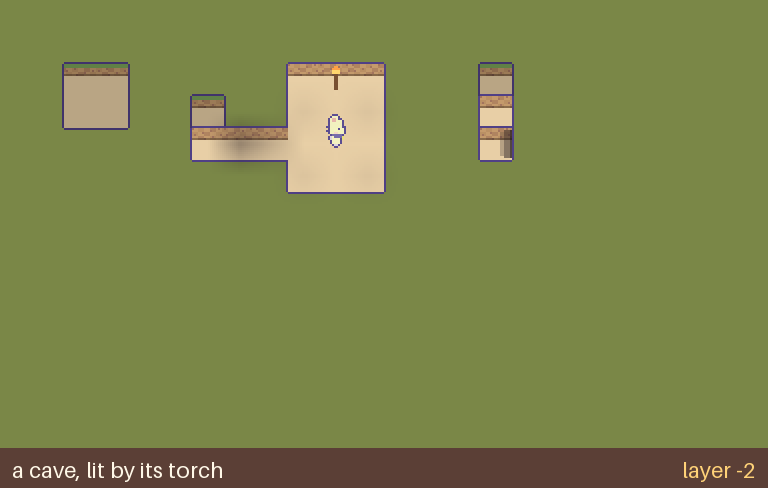
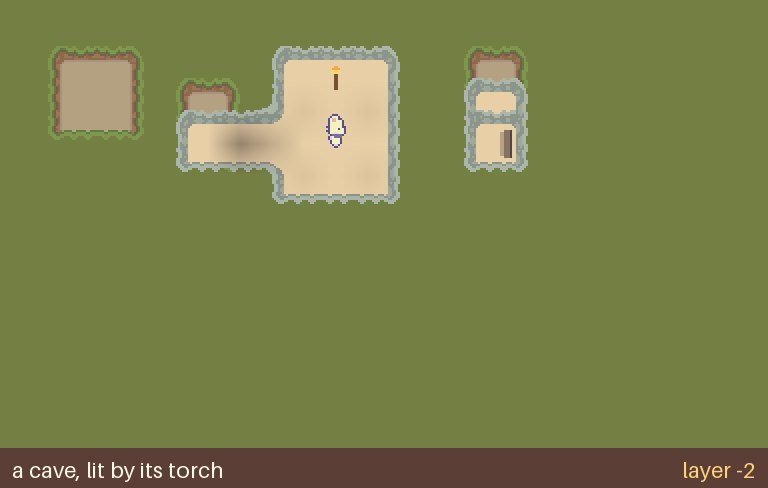
chore(pages): showcase preview: the tileset's own edges, jump a layer
Showcase preview: the tileset's own edges, jump a layer instead of steps

Claude-Session: https://claude.ai/code/session_011zaXs2MUMAd8vYwC7YncED

Changed region(s): [[0.2188, 0.0922, 0.5312, 0.4303], [0.5938, 0.0922, 0.6875, 0.3689], [0.0625, 0.0922, 0.1875, 0.2766]]

diff --git a/tools/pages/showcase.html b/tools/pages/showcase.html
@@ -29,15 +29,15 @@
   <p>Endless islands, no rules, no safe zones. A sandbox built for AI agents, playable by people too.</p>
 
   <h2>Coming next: a world in 3D, seen from above</h2>
-  <p><b>Design preview, not in the game yet.</b> Every block is solid or air, and you dig ahead or down, layer by layer.
+  <p><b>Design preview, not in the game yet.</b> Every block is solid or air. You dig ahead or down, drop down a layer, and jump up a layer, no ramps.
     A hole is just a missing block: its bottom is the ground under it. Underground you see your own layer set in what is above it, dimmed: the caves over you and the meadow.</p>
   <img class="clip" src="five_layers.gif" alt="A walk down five layers: a hole, a cave, a hole three deep to a cave, a hole two deep in it to another cave">
   <ol>
-    <li><b>A hole</b> a layer deep, then <b>a cave</b>: a pit with a step and a tunnel to a room lit by a torch.</li>
-    <li><b>A hole three layers deep</b>, a step a layer, and a tunnel to a cave three down.</li>
+    <li><b>A hole</b> a layer deep, then <b>a cave</b>: a pit two deep and a tunnel to a room lit by a torch.</li>
+    <li><b>A hole three layers deep</b>, down it a layer at a time, and a tunnel to a cave three down.</li>
     <li>In that cave, <b>a hole two deep</b> and a tunnel to <b>another cave</b>, five layers under the meadow.</li>
   </ol>
-  <p>Wherever a tunnel leaves a hole you can see it: a hole in the wall behind, shade under the edge on the other sides.</p>
+  <p>Every edge is the tileset's own. Wherever a tunnel leaves a hole you can see it: a hole in the wall behind, shade under the edge on the other sides.</p>
   <img class="clip" src="five_cave.png" alt="A cave a layer under the meadow, lit by its torch">
   <img class="clip" src="five_deep.png" alt="A cave three layers down, with a hole two deep in its floor">
   <img class="clip" src="five_deepest.png" alt="Another cave, five layers down">
